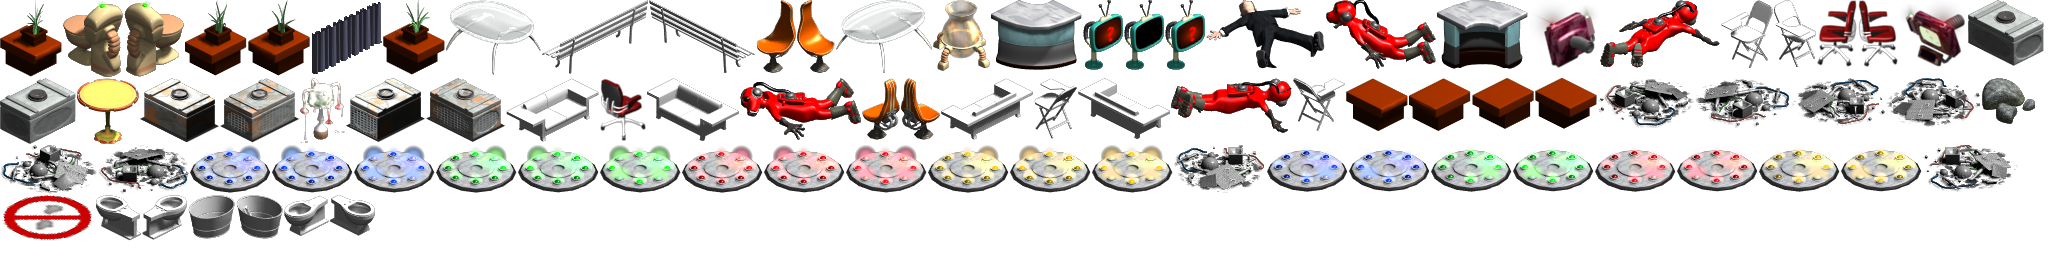
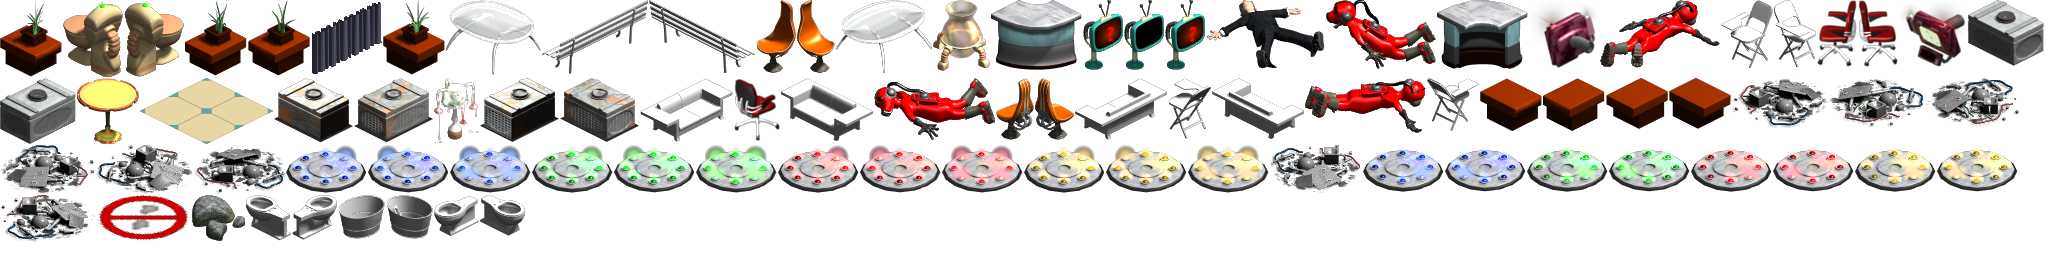
obstacles: add collapsingfloor_visible obstacle, basically a floor tile which will be used for special purposes later.

Changed region(s): [[0.0, 0.3125, 1.0, 0.9375]]

diff --git a/src/defs.h b/src/defs.h
@@ -1246,7 +1246,8 @@ enum obstacle_types {
 	ISO_BOOKSHELF_LONG_LOOTABLE_W,
 	ISO_BOOKSHELF_LONG_LOOTED_W,
 	ISO_BOOKSHELF_LONG_LOOTABLE_N,
-	ISO_BOOKSHELF_LONG_LOOTED_N
+	ISO_BOOKSHELF_LONG_LOOTED_N,
+	ISO_COLLAPSINGFLOOR_VISIBLE, // = 482
 };
 
 enum {
